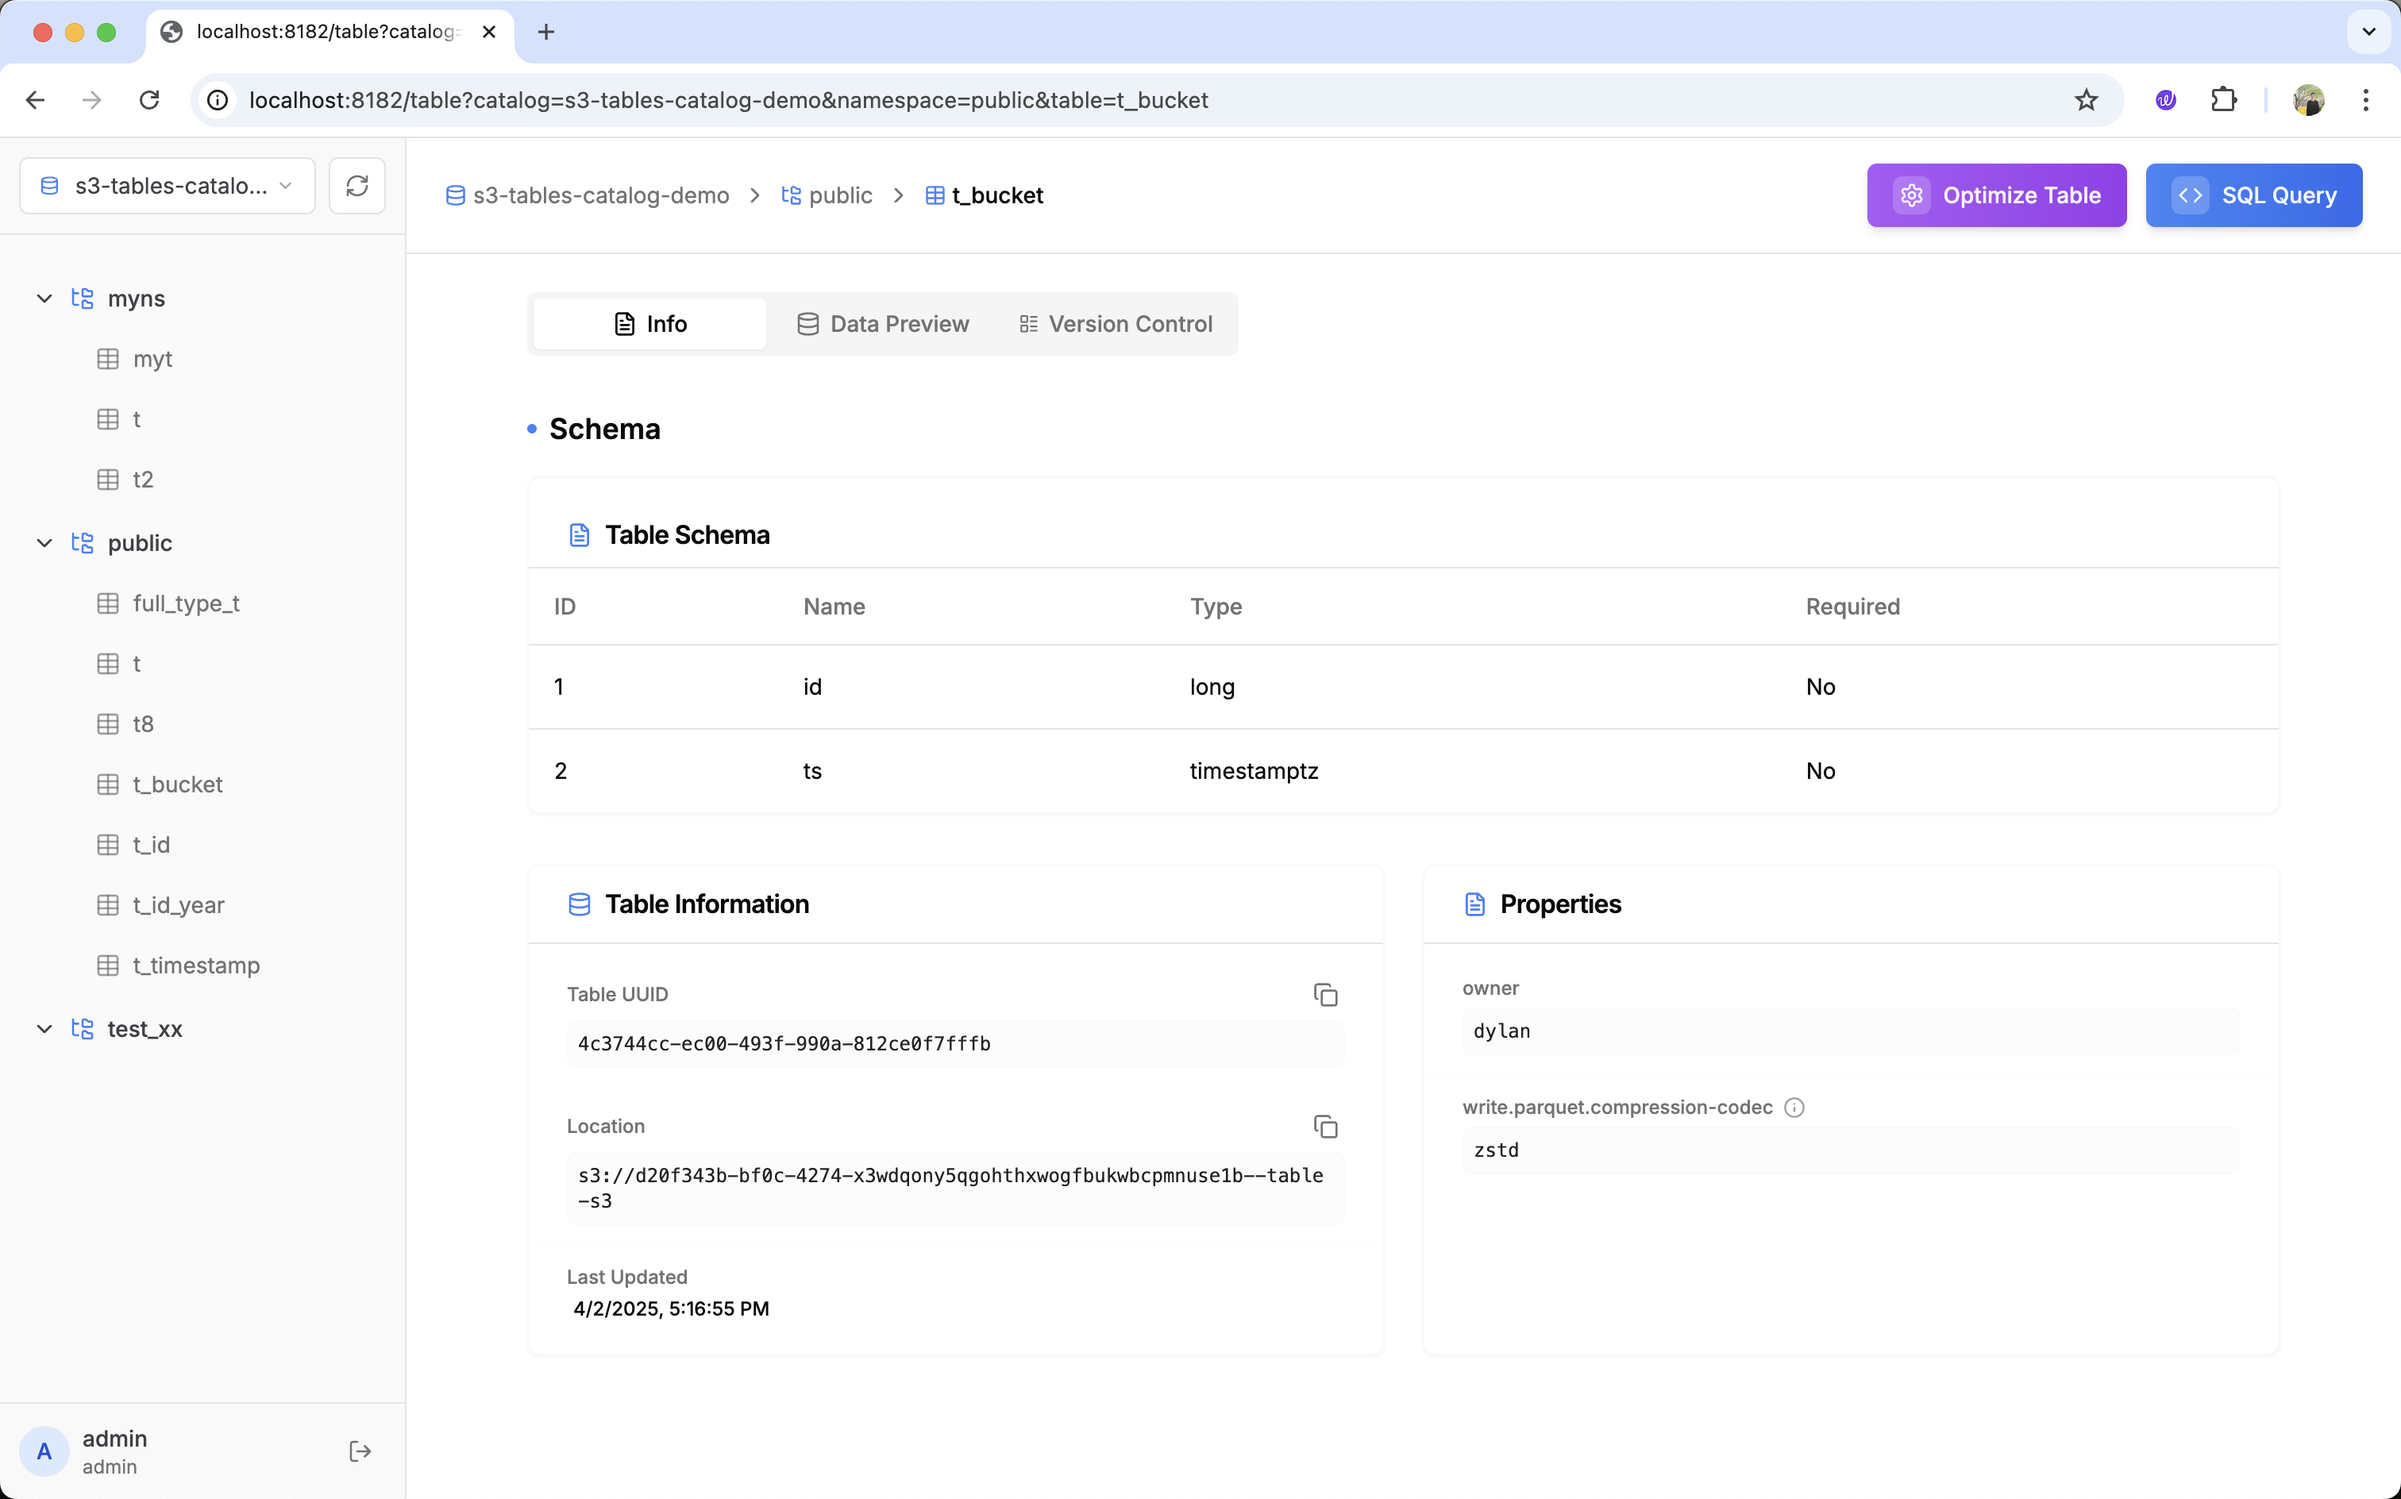
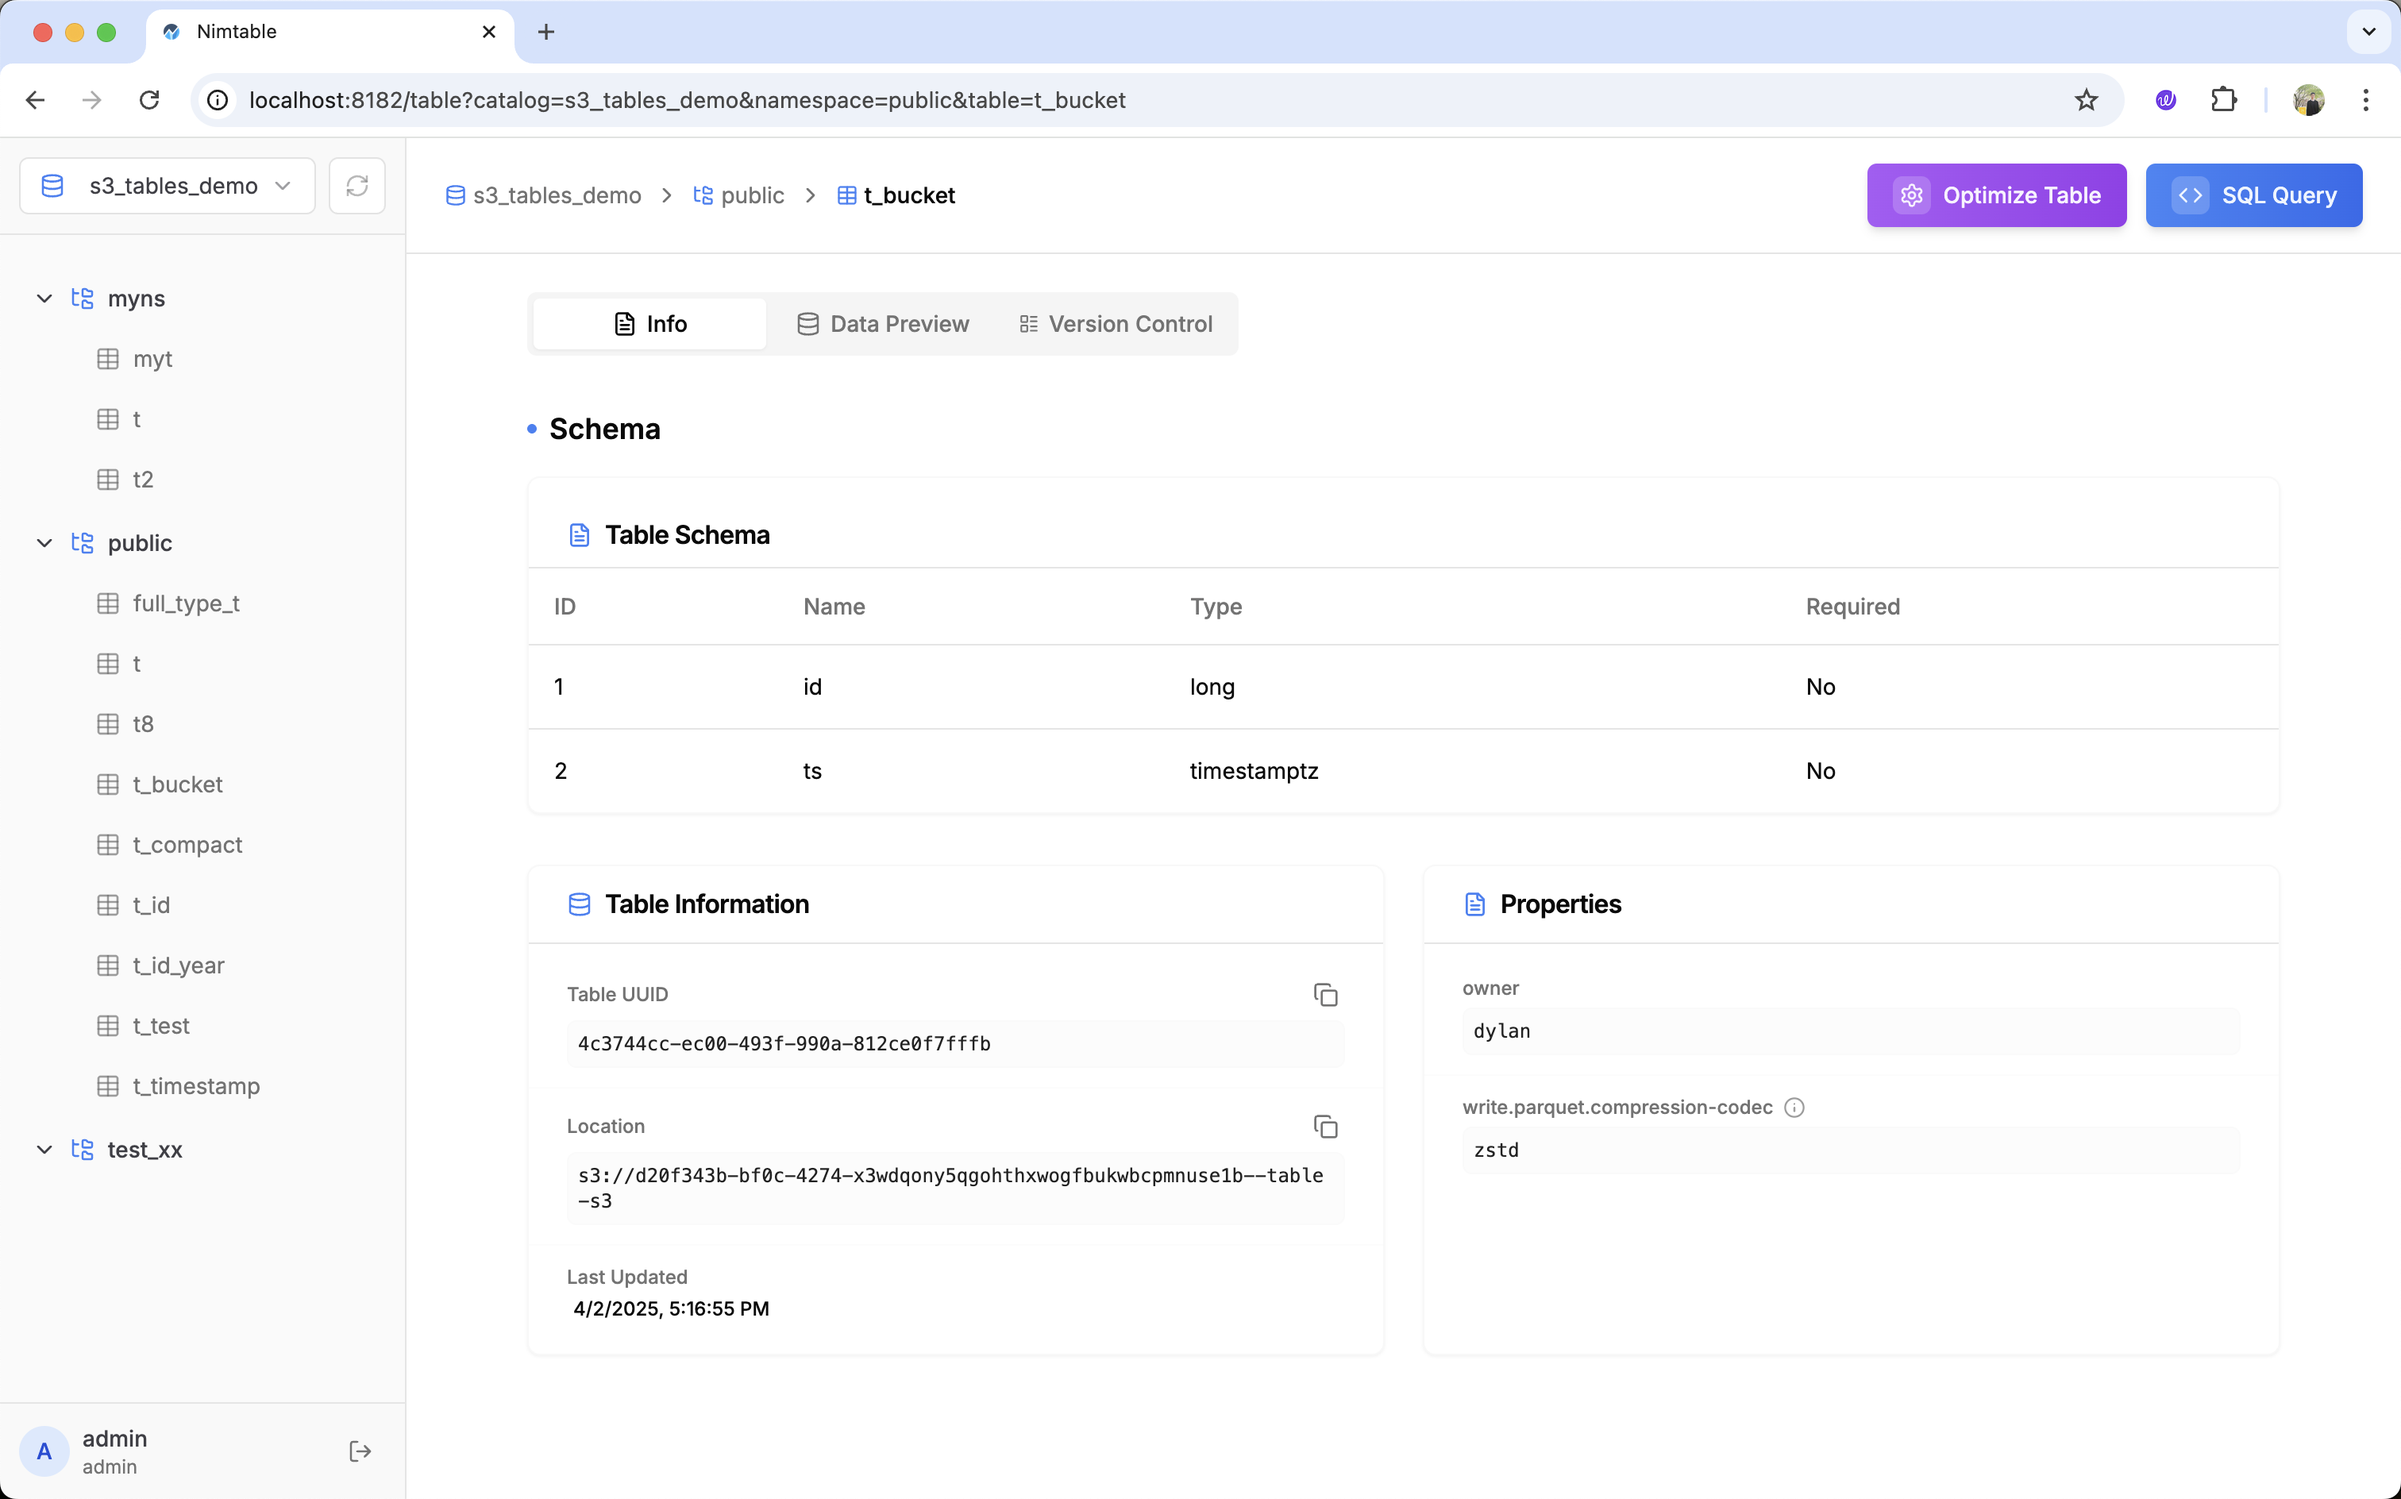
refine (#65)

diff --git a/src/components/app-sidebar.tsx b/src/components/app-sidebar.tsx
@@ -167,6 +167,11 @@ function AppSidebarContent() {
                   disabled={catalogListLoading || isRefreshing}
                   value={catalog as string}
                   onValueChange={(value) => {
+                    if (value === "new") {
+                      router.push("/catalog/new")
+                      return
+                    }
+                    
                     // Update the URL with the catalog parameter without navigation
                     const url = new URL(window.location.href)
                     url.searchParams.set("catalog", value)
@@ -197,28 +202,18 @@ function AppSidebarContent() {
                         {catalog}
                       </SelectItem>
                     ))}
+                    <SelectItem
+                      value="new"
+                      className="font-medium hover:bg-blue-50 dark:hover:bg-blue-900/20 hover:text-blue-600 dark:hover:text-blue-400 transition-colors"
+                    >
+                      <div className="flex items-center">
+                        <Plus className="mr-2 h-4 w-4 text-blue-500" />
+                        New Catalog
+                      </div>
+                    </SelectItem>
                   </SelectContent>
                 </Select>
               </div>
-
-              <TooltipProvider delayDuration={300}>
-                <Tooltip>
-                  <TooltipTrigger asChild>
-                    <Button
-                      variant="outline"
-                      size="icon"
-                      className="h-9 w-9 flex-shrink-0 border-muted-foreground/20 hover:border-blue-400 hover:bg-blue-50/30 dark:hover:bg-blue-900/10 transition-colors"
-                      onClick={() => router.push("/catalog/new")}
-                    >
-                      <Plus className="h-4 w-4 text-blue-500" />
-                      <span className="sr-only">New Catalog</span>
-                    </Button>
-                  </TooltipTrigger>
-                  <TooltipContent side="bottom">
-                    <p>Create new catalog</p>
-                  </TooltipContent>
-                </Tooltip>
-              </TooltipProvider>
 
               <TooltipProvider delayDuration={300}>
                 <Tooltip>
